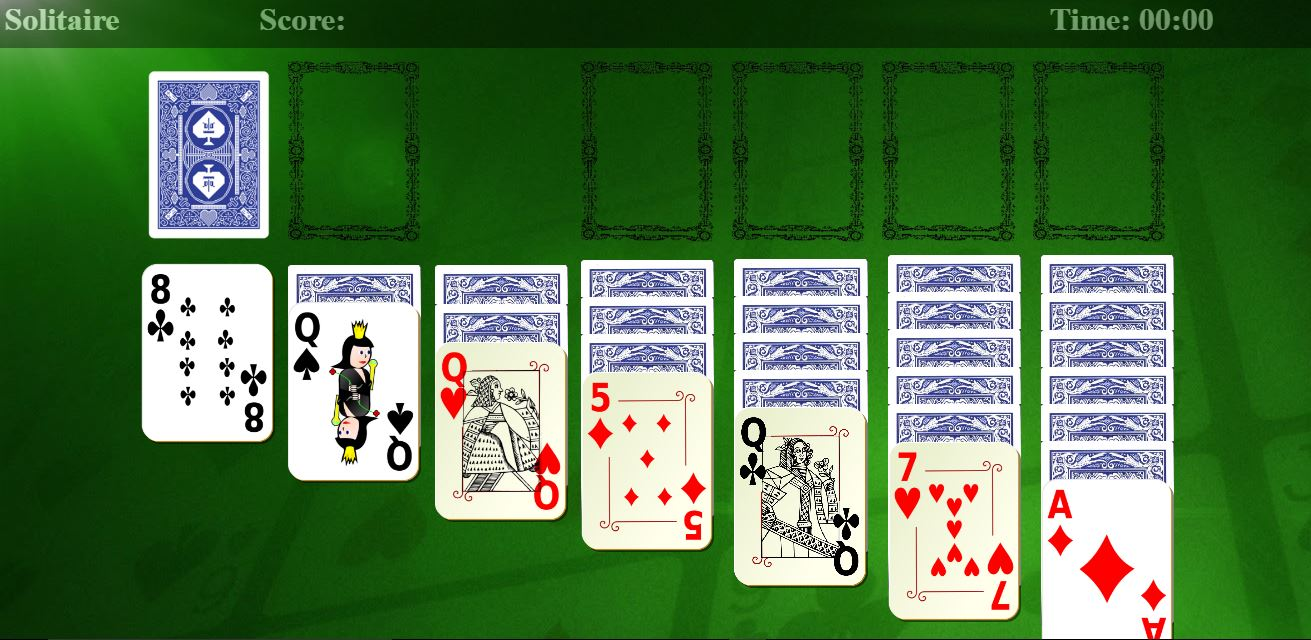
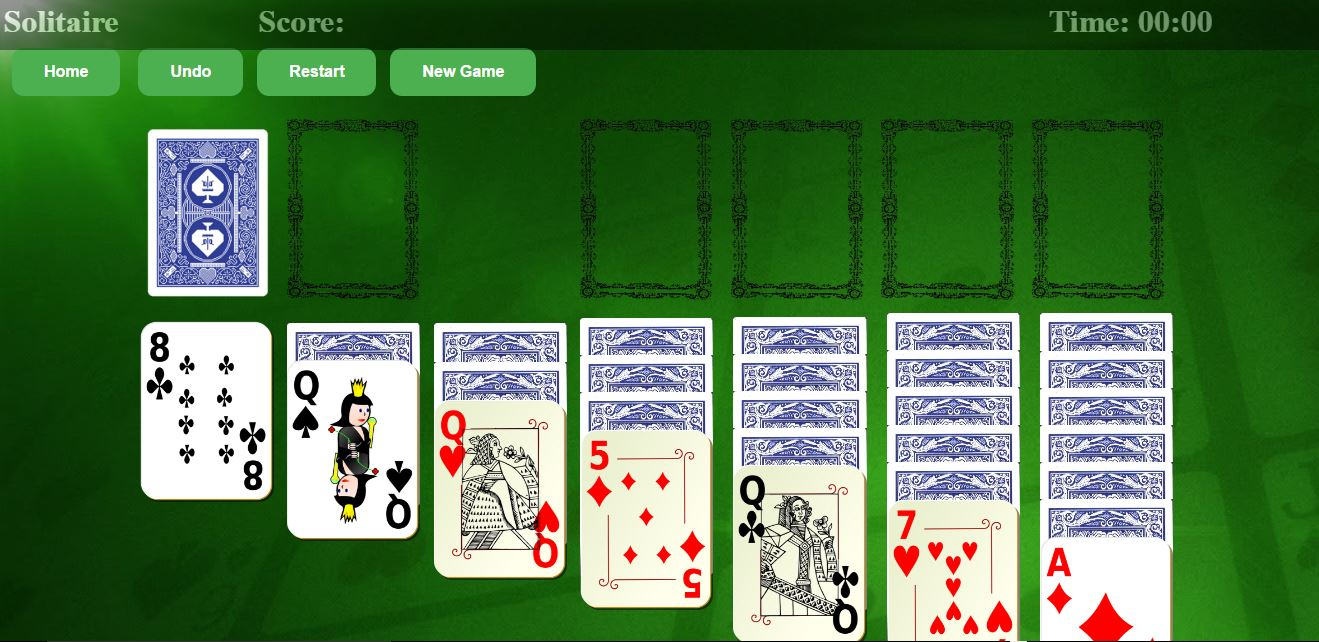
v1.1.7
integration

diff --git a/help.html b/help.html
@@ -1,0 +1,42 @@
+<!DOCTYPE html>
+<html>
+<title>Help</title>
+<head>
+<link rel="stylesheet" type="text/css" href="css/help.css">
+</head>
+<body>
+<h1><b>SOLITAIRE RULES</b></h1>
+
+<p><b>The different piles</b></p><br />
+<p>There are four different types of piles in Solitaire. They are: </p></br/>
+<p>
+   <ul>
+      <li>The Stock: The pile of facedown cards in the upper left corner.</li>
+	  <li>The Waste: The faceup pile next to the Stock in the upper left corner.</li>
+	  <li>The Foundations: The four piles in the upper right corner.</li>
+	  <li>The Tableau: The seven piles that make up the main table.</li>
+   </ul>
+</p><br/>
+<p><b>The setup</b></p><br/>
+<p>The Tableau piles are numbered from 1 to 7, pile 1 has 1 card, pile 2 has 2 cards and so on. The top card on each Tableau pile is turned face up, the cards below are turned face down. The cards that are left after setting up the Tableau are placed in the Stock, face down. The Waste and the Foundations start off empty.</p><br />
+<p><b>The objective</b></p><br/>
+<p>To win Solitaire, you must get all the cards onto the Foundation piles. The Foundations are ordered by suit and rank, each Foundation has one suit and you must put the cards onto them in the order Ace 2 3 4 5 6 7 8 9 10 Jack Queen King. To get there, you can use the moves described below. </p><br/>
+<p><b>The objective</b></p><br/>
+<p>
+   <ul>
+      <li>Flip cards from the Stock onto the Waste. You can flip either 1 or 3 cards from the Stock onto the Waste. The number can be configured in Options. </li>
+	  <li>Move a card from the Waste onto the Foundations. If the top card of the Waste can go onto one of the Foundations then you can drag it there. </li>
+	  <li>Move a card from the Waste onto the Tableau. You can move the top card of the Waste onto one of the Tableau piles. </li>
+	  <li>Move a card from a Foundation back onto the Tableau. You can move the top card of a Foundation back onto the Tableau. This isn't allowed in all Solitaire versions, but we allow it here :) </li>
+	  <li>Move one or more cards from one Tableau pile to another. You can move a face up card on the Tableau onto another Tableau pile, if that pile's top card is one higher than the moved card and in a different color. For example, you could move a red 6 onto a black 7. Or, if you have red 6, black 5, red 4 face up on one tableau, you can move all of them at the same time onto a Tableau with a black 7. If you have an empty Tableau pile then you can only place a king there. </li>
+  	  <li>You can flip a face down Tableau card. If you have moved a face up card from a Tableau pile so now the top card is face down, then you can click the face down card and it will be flipped and shown face up. </li>
+	  <li>You can move a Tableau card onto the Foundations. You can do this manually if you need to clear some space on the Tableau. You can either drag the cards onto the Foundation, or just double click it and then it will go there by itself. When all cards on the Tableau are turned up, and all cards from the stock are finished then the game will automatically move all the Tableau cards onto the Foundations, since at that point you are guaranteed to win the game. </li>
+      <li>You can Undo as many times as you like. The game offers unlimited undos. Each Undo counts as a new move though, so if you're trying to win the game in as few moves as possible you should be careful about how many undos you use. </li>
+   </ul>
+</p></br>
+<p><b>Time and Moves</b></p><br/>
+<p>The game counts the moves you make, and measures the time it takes to finish the game, so you can compete against your previous best games if you want.</p><br/>
+
+
+</body>
+</html>

diff --git a/css/home.css b/css/home.css
@@ -1,0 +1,73 @@
+#home{
+background-image: url("page.png");
+background-size: cover;
+background-attachment: fixed;
+}
+
+.logo{
+padding-top:50px;
+float: center;
+text-align:center;
+display: block;
+}
+
+.button1 {
+    background-color: #4ce600;
+    border: none;
+    color: white;
+    padding: 25px 32px;
+    text-align: center;
+    text-decoration: none;
+    display: inline-block;
+	border-radius: 6px;
+	font-family: showcard gothic;
+    font-size: 30px;
+    cursor: pointer;
+	
+	}
+	
+.button{
+margin-top: 5%;
+}
+	
+.button1 {
+margin: auto;
+display: block;
+width: 250px;
+border: 2px solid #004d00;
+}
+
+.button2{
+    background-color: #4ce600;
+    border: none;
+    color: white;
+    padding: 25px 32px;
+    text-align: center;
+    text-decoration: none;
+    display: inline-block;
+	border-radius: 6px;
+	font-family: showcard gothic;
+    font-size: 30px;
+    cursor: pointer;
+}
+
+.button2 {
+margin: auto;
+display: block;
+width: 250px;
+border: 2px solid #004d00;
+}
+
+.button1:hover {
+    box-shadow: 0 12px 16px 0 rgba(0,0,0,0.24), 0 17px 50px 0 rgba(0,0,0,0.19);
+}
+
+.button2:hover {
+    box-shadow: 0 12px 16px 0 rgba(0,0,0,0.24), 0 17px 50px 0 rgba(0,0,0,0.19);
+}
+
+
+
+
+
+

diff --git a/game.html b/game.html
@@ -34,9 +34,9 @@ Project
 <br/>
 <br/>
 <form>
-<button class="button"formaction="home.html"><span>Home</span></button>&nbsp;
-<button class="button"formaction="game.html"><span>Undo</span></button>&nbsp;<button class="button"formaction="game.html"><span>Restart</span></button>
-<button class="button"formaction="game1.html"><span>New Game</span></button>
+<button class="button" formaction="home.html"><span>Home</span></button>&nbsp;
+<button class="button" formaction="game.html"><span>Undo</span></button>&nbsp;<button class="button" formaction="game.html"><span>Restart</span></button>
+<button class="button" formaction="game1.html"><span>New Game</span></button>
 </form>
 
 

diff --git a/game1.html b/game1.html
@@ -34,8 +34,8 @@ Project
 <br/>
 <br/>
 <form>
-<button class="button"formaction="game.html"><span>Home</span></button>&nbsp;
-<button class="button"formaction="game1.html"><span>Undo</span></button>&nbsp;<button class="button"formaction="game1.html"><span>Restart</span></button></form>
+<button class="button" formaction="game.html"><span>Home</span></button>&nbsp;
+<button class="button" formaction="game1.html"><span>Undo</span></button>&nbsp;<button class="button" formaction="game1.html"><span>Restart</span></button></form>
 
 
 <br/>

diff --git a/solitairehome.html b/solitairehome.html
@@ -1,0 +1,16 @@
+<!DOCTYPE html>
+<html>
+<title>Solitaire</title>
+<head>
+<link rel="stylesheet" type="text/css" href="home.css">
+</head>
+<body id="home">
+<div class="logo">
+<img src="logo.png" style="width:580px;height:380px;" align="center"/>
+</div>
+<div class="button">
+<button class="button button1"><b>START</b></button><br>
+<button class="button button2"><a href="help.html"<b>HELP</b></button><br>
+</div>
+</body>
+</html>

diff --git a/css/help.css b/css/help.css
@@ -1,0 +1,20 @@
+body{
+background-image: url("../images/bghelp.jpg");
+background-size: cover;
+background-attachment: fixed;
+width: 60%;
+font-size: 200%;
+font-weight:bold;
+ margin:0 auto;
+ color:#ffffff;
+}
+h1{
+color: #990000;
+background-color: #F0F0F0;
+text-align: center;
+margin-top: 2%;
+}
+p{
+margin: 0%;
+text-align: center;
+}
